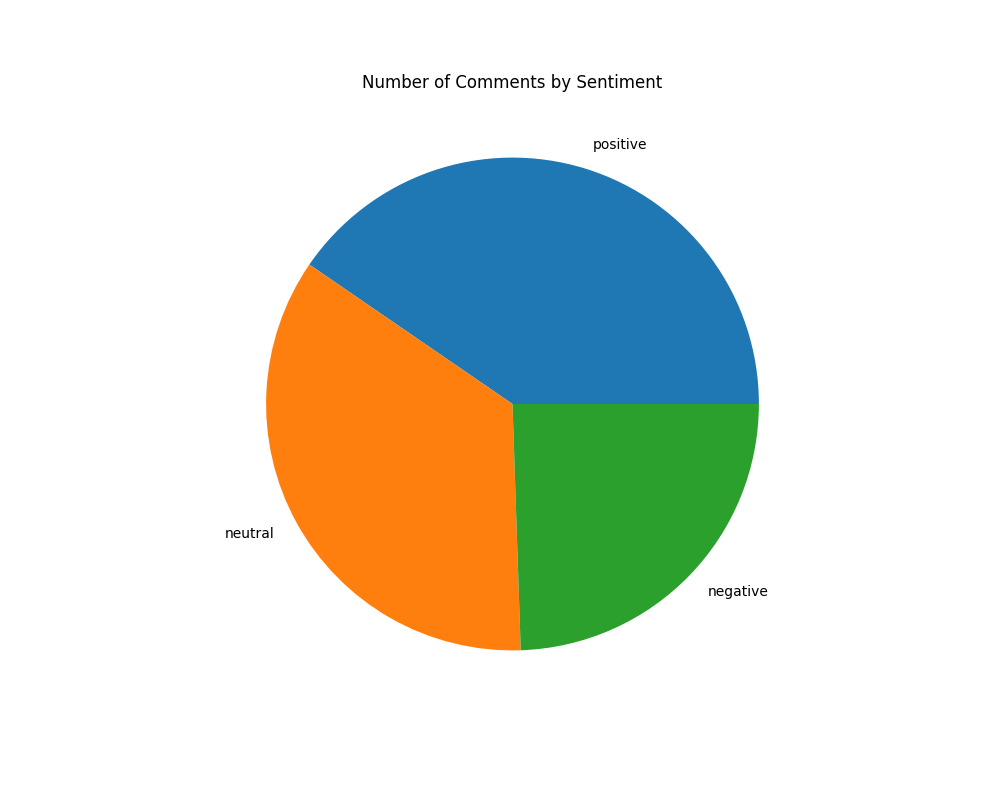
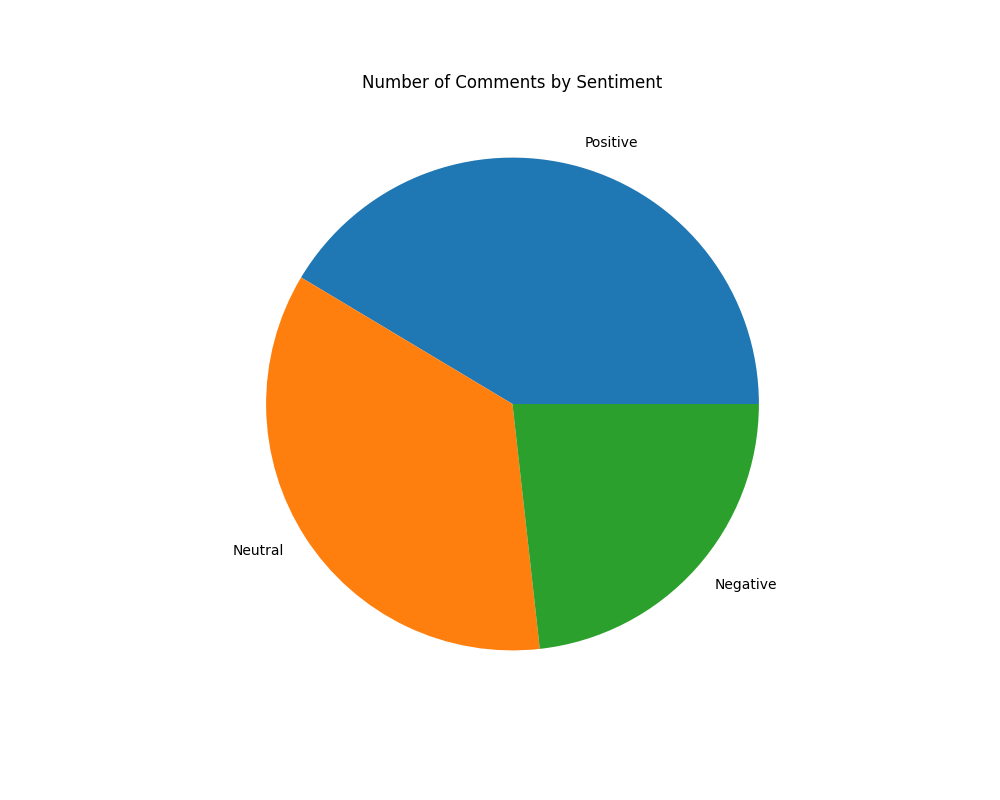
Added dislike like and view count

diff --git a/analyzer.py b/analyzer.py
@@ -8,17 +8,20 @@ import matplotlib.pyplot as plt
 from nltk.sentiment.vader import SentimentIntensityAnalyzer
 from PIL import Image
 import numpy as np
+import requests
 
 my_api_key = API_KEY()
 youtube = build("youtube", "v3", developerKey=my_api_key)
 translator = Translator()
 mask = np.array(Image.open("youtube_icon.png"))
+print(mask)
 stop_words = stopwords.words("english")
 
 
 # Comment extraction
-def extract_comment(url, pages):
+def extract_data(url, pages):
     original_comments = []
+    
 
     if int(pages) > 2500:
         raise Exception(
@@ -28,28 +31,27 @@ def extract_comment(url, pages):
         video_id = url[(url.index("v=") + 2):url.index("&")]
     else:
         video_id = url[(url.index("v=") + 2):]
-
-    request = youtube.commentThreads().list(
-        part="snippet",
-        videoId=video_id,
-        maxResults=100
-    )
-
-    response = request.execute()
-
+        
+    request = requests.get(f"https://returnyoutubedislikeapi.com/votes?videoId={video_id}")  
+    like_count = request["likes"]
+    dislike_count = request["dislikes"]
+    view_count = request["viewCount"]
+    
+    print(like_count,dislike_count,view_count)
     n = 0
     while n < int(pages):
-        try:
-            request = youtube.commentThreads().list(
+        try: 
+            cm_request = youtube.commentThreads().list(
                 part="snippet",
                 videoId=video_id,
                 maxResults=100,
                 pageToken=response["nextPageToken"]
             )
-            response = request.execute()
-            for item in response["items"]:
+            
+            cm_response = cm_request.execute()
+            for item in cm_response["items"]:
                 original_comments.append(
-                    item["snippet"]["topLevelComment"]["snippet"]["textOriginal"])
+                    item["snippet"]["topLevelComment"]["snippet"]["textOriginal"])            
         except:
             request = youtube.commentThreads().list(
                 part="snippet",
@@ -62,7 +64,7 @@ def extract_comment(url, pages):
                     item["snippet"]["topLevelComment"]["snippet"]["textOriginal"])
         n += 1
 
-    return original_comments
+    return original_comments,rate_response
 
 
 # Comment translating
@@ -121,11 +123,11 @@ def calculate_score(df, comment_col):
 
 def identify_sentiment(compound_score):
     if compound_score >= 0.2:
-        return "positive"
+        return "Positive"
     elif compound_score <= -0.2:
-        return "negative"
+        return "Negative"
     else:
-        return "neutral"
+        return "Neutral"
 
 def generate_pie_chart(df):
     plt.clf()
